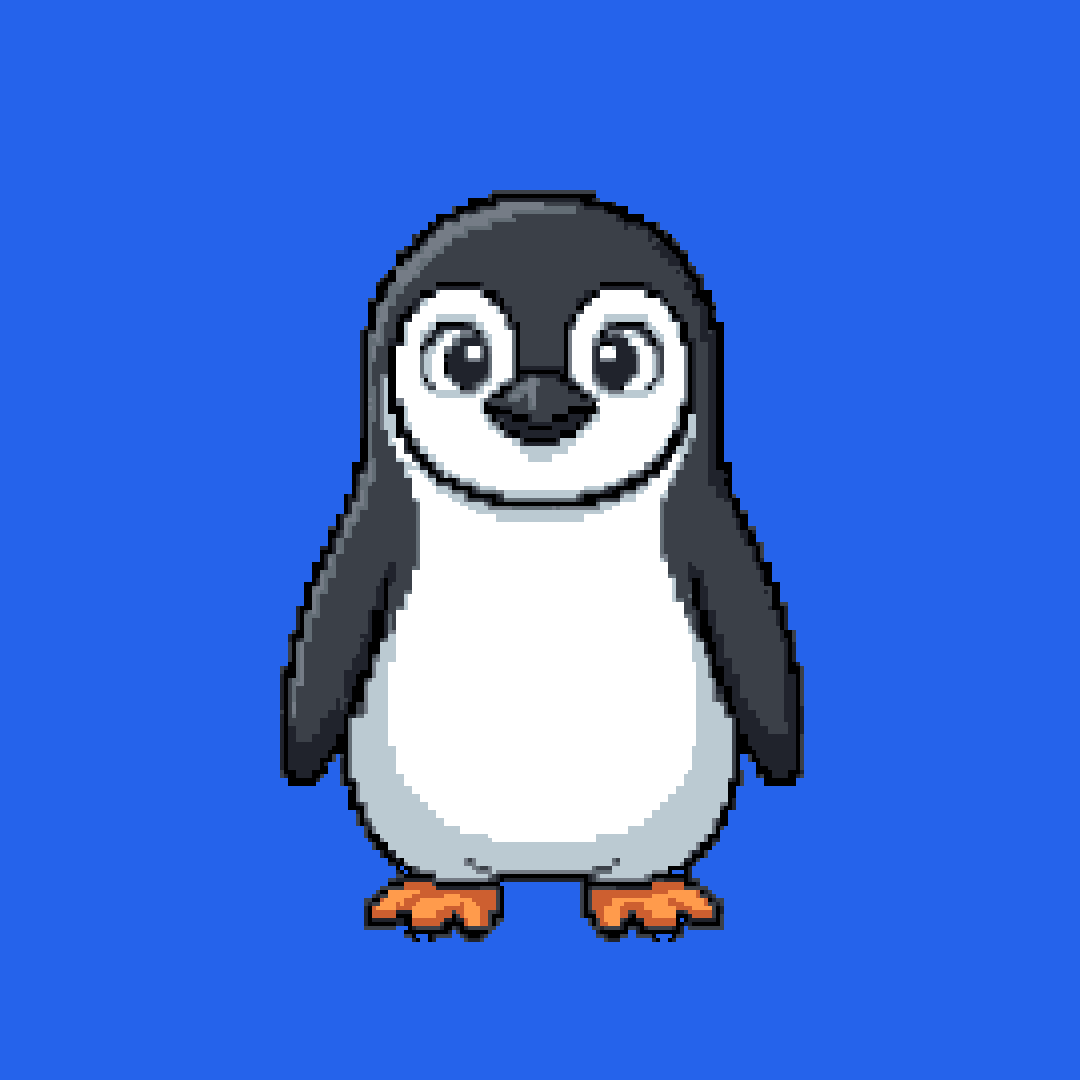
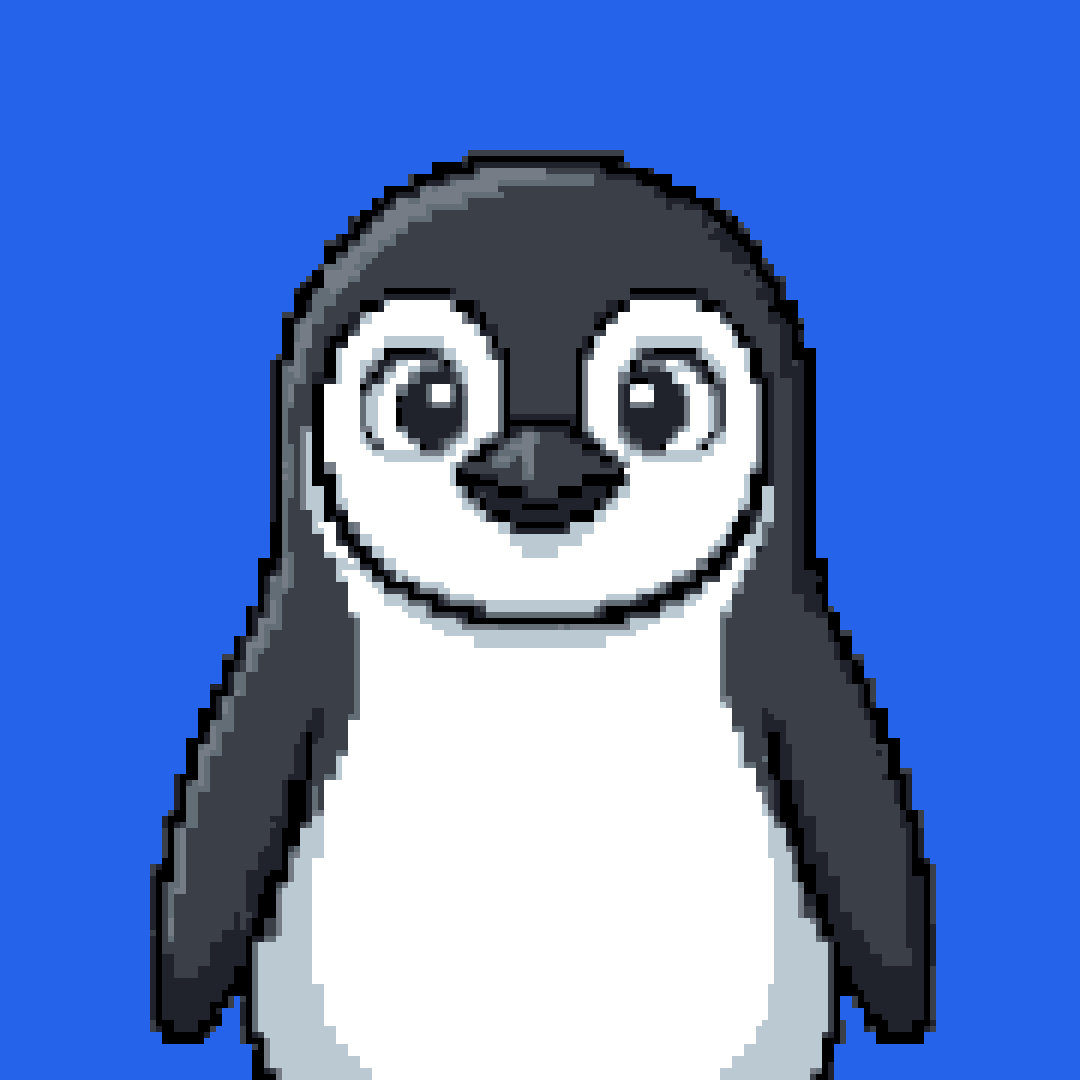
Instagram: a foto do perfil vira o busto do Linu, já aplicada
Foto, nome (LinuPedia · Família Linu) e bio aplicados no @linupedia em 11/11/2026; o link da bio
só muda pelo app do celular.

diff --git a/instagram/README.md b/instagram/README.md
@@ -51,7 +51,7 @@ Os preços são os “a partir de” de cada site em 11/11/2026: conferir antes 
 
 ## O perfil
 
-- **Foto:** `foto-perfil.png` (o Linu de frente, em 4×, no azul da marca; o círculo do Instagram não corta os pés).
+- **Foto:** `foto-perfil.png` (o busto do Linu, em 6×, no azul da marca). Aplicada em 11/11/2026, com o nome e a bio.
 - **Nome:** LinuPedia · Família Linu
 
 ## A bio
